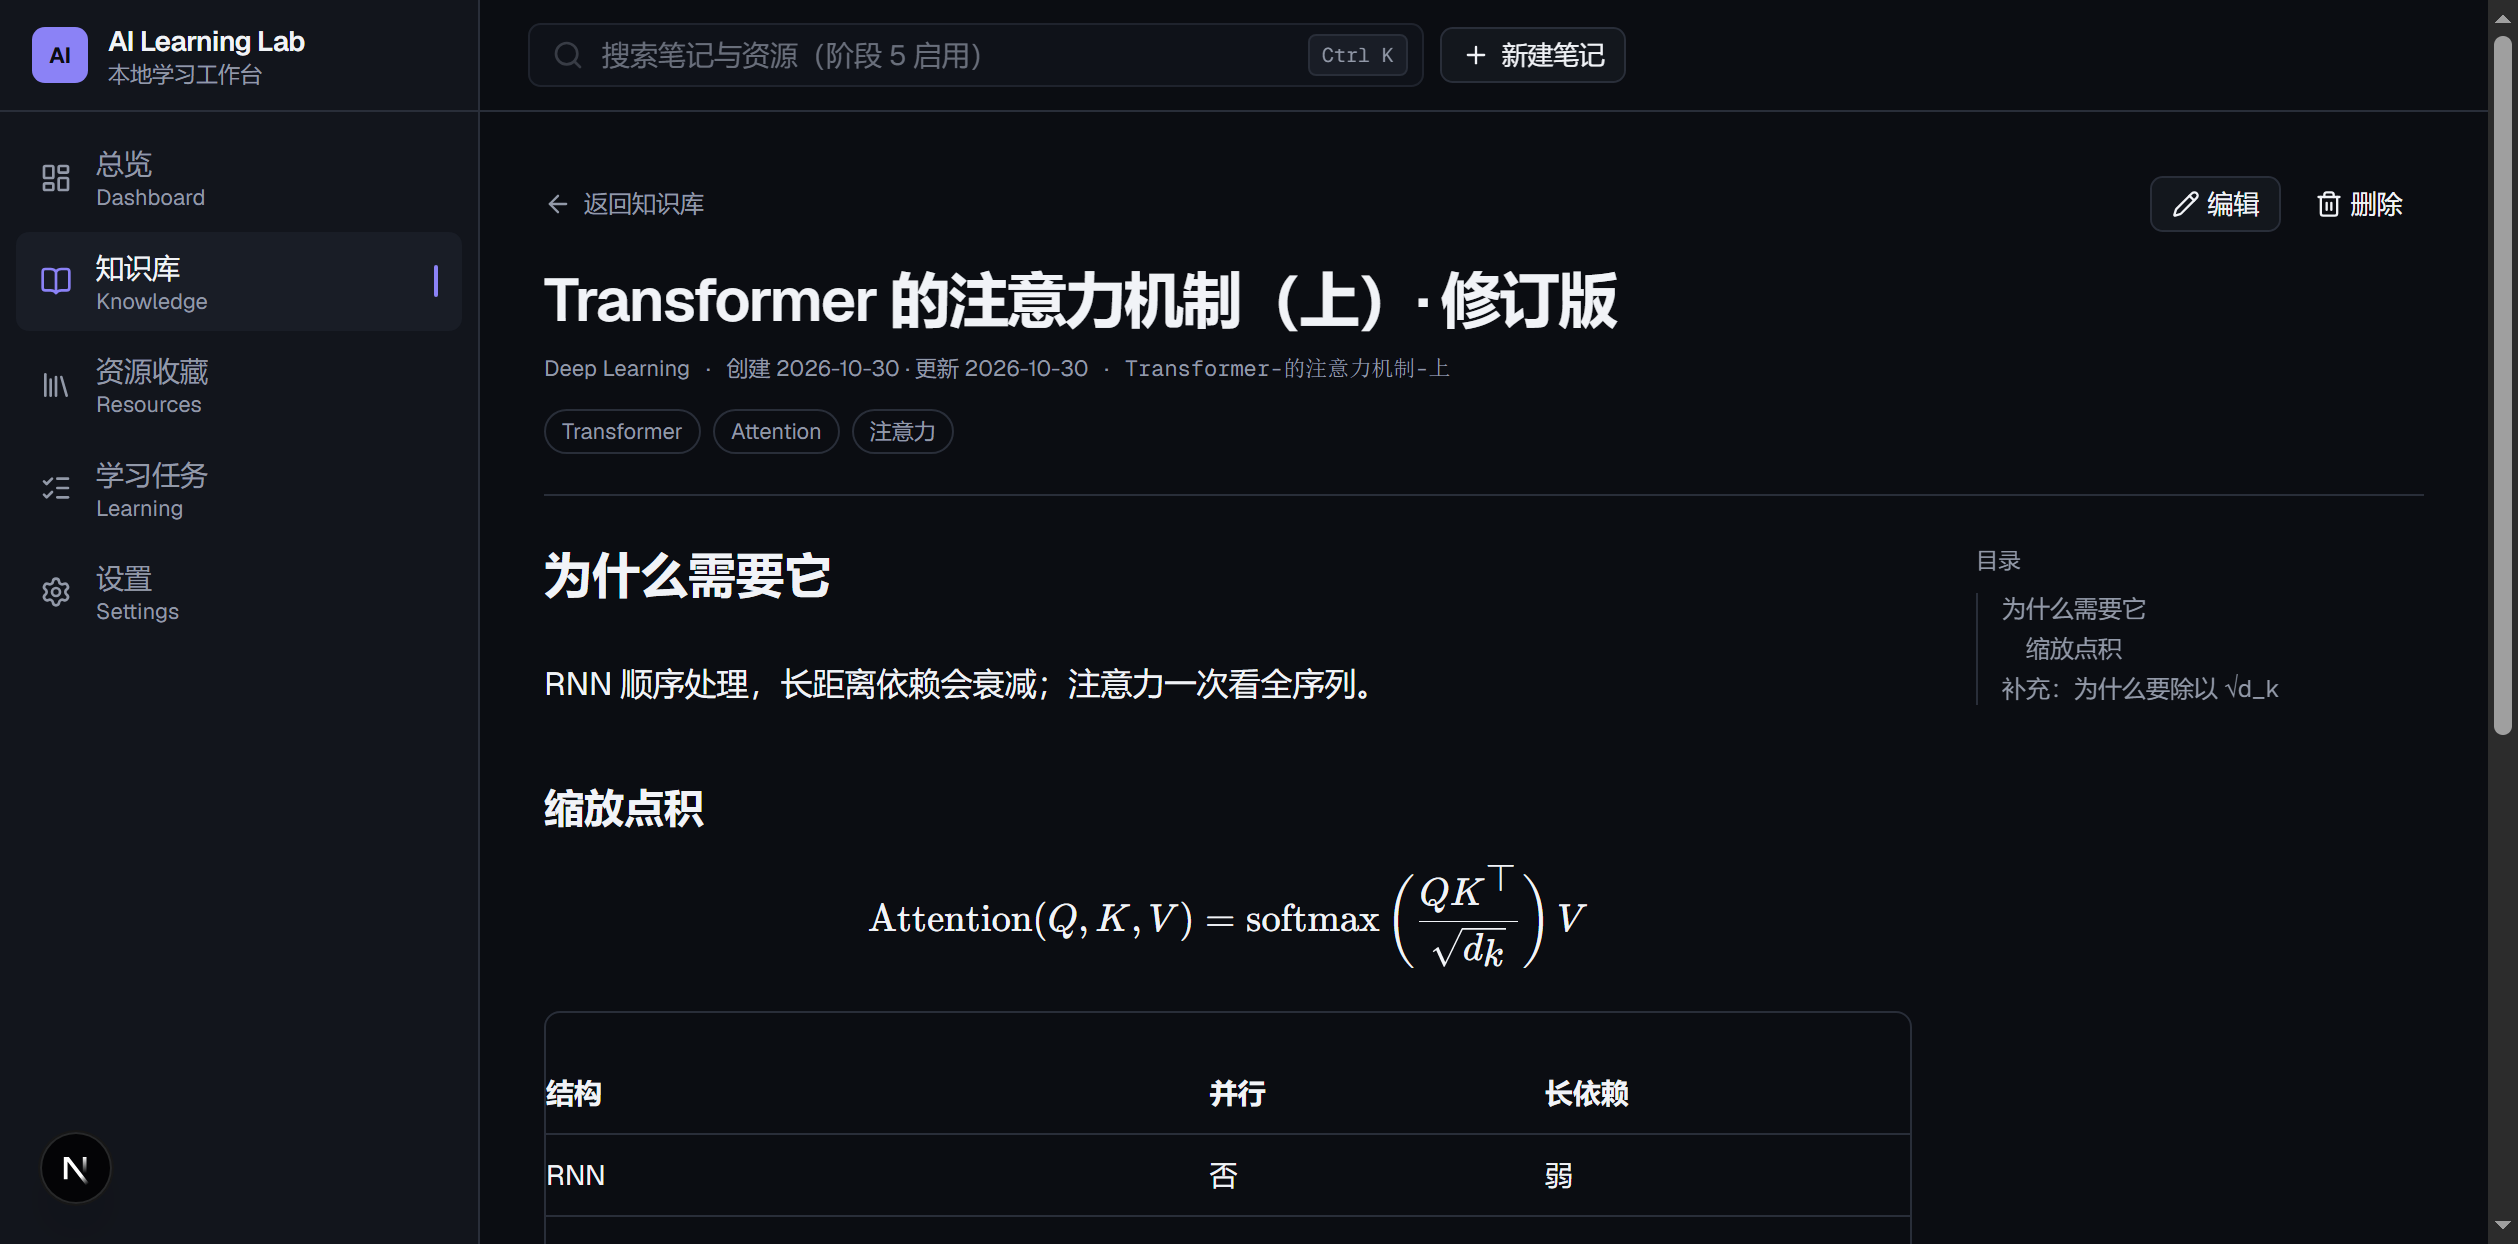
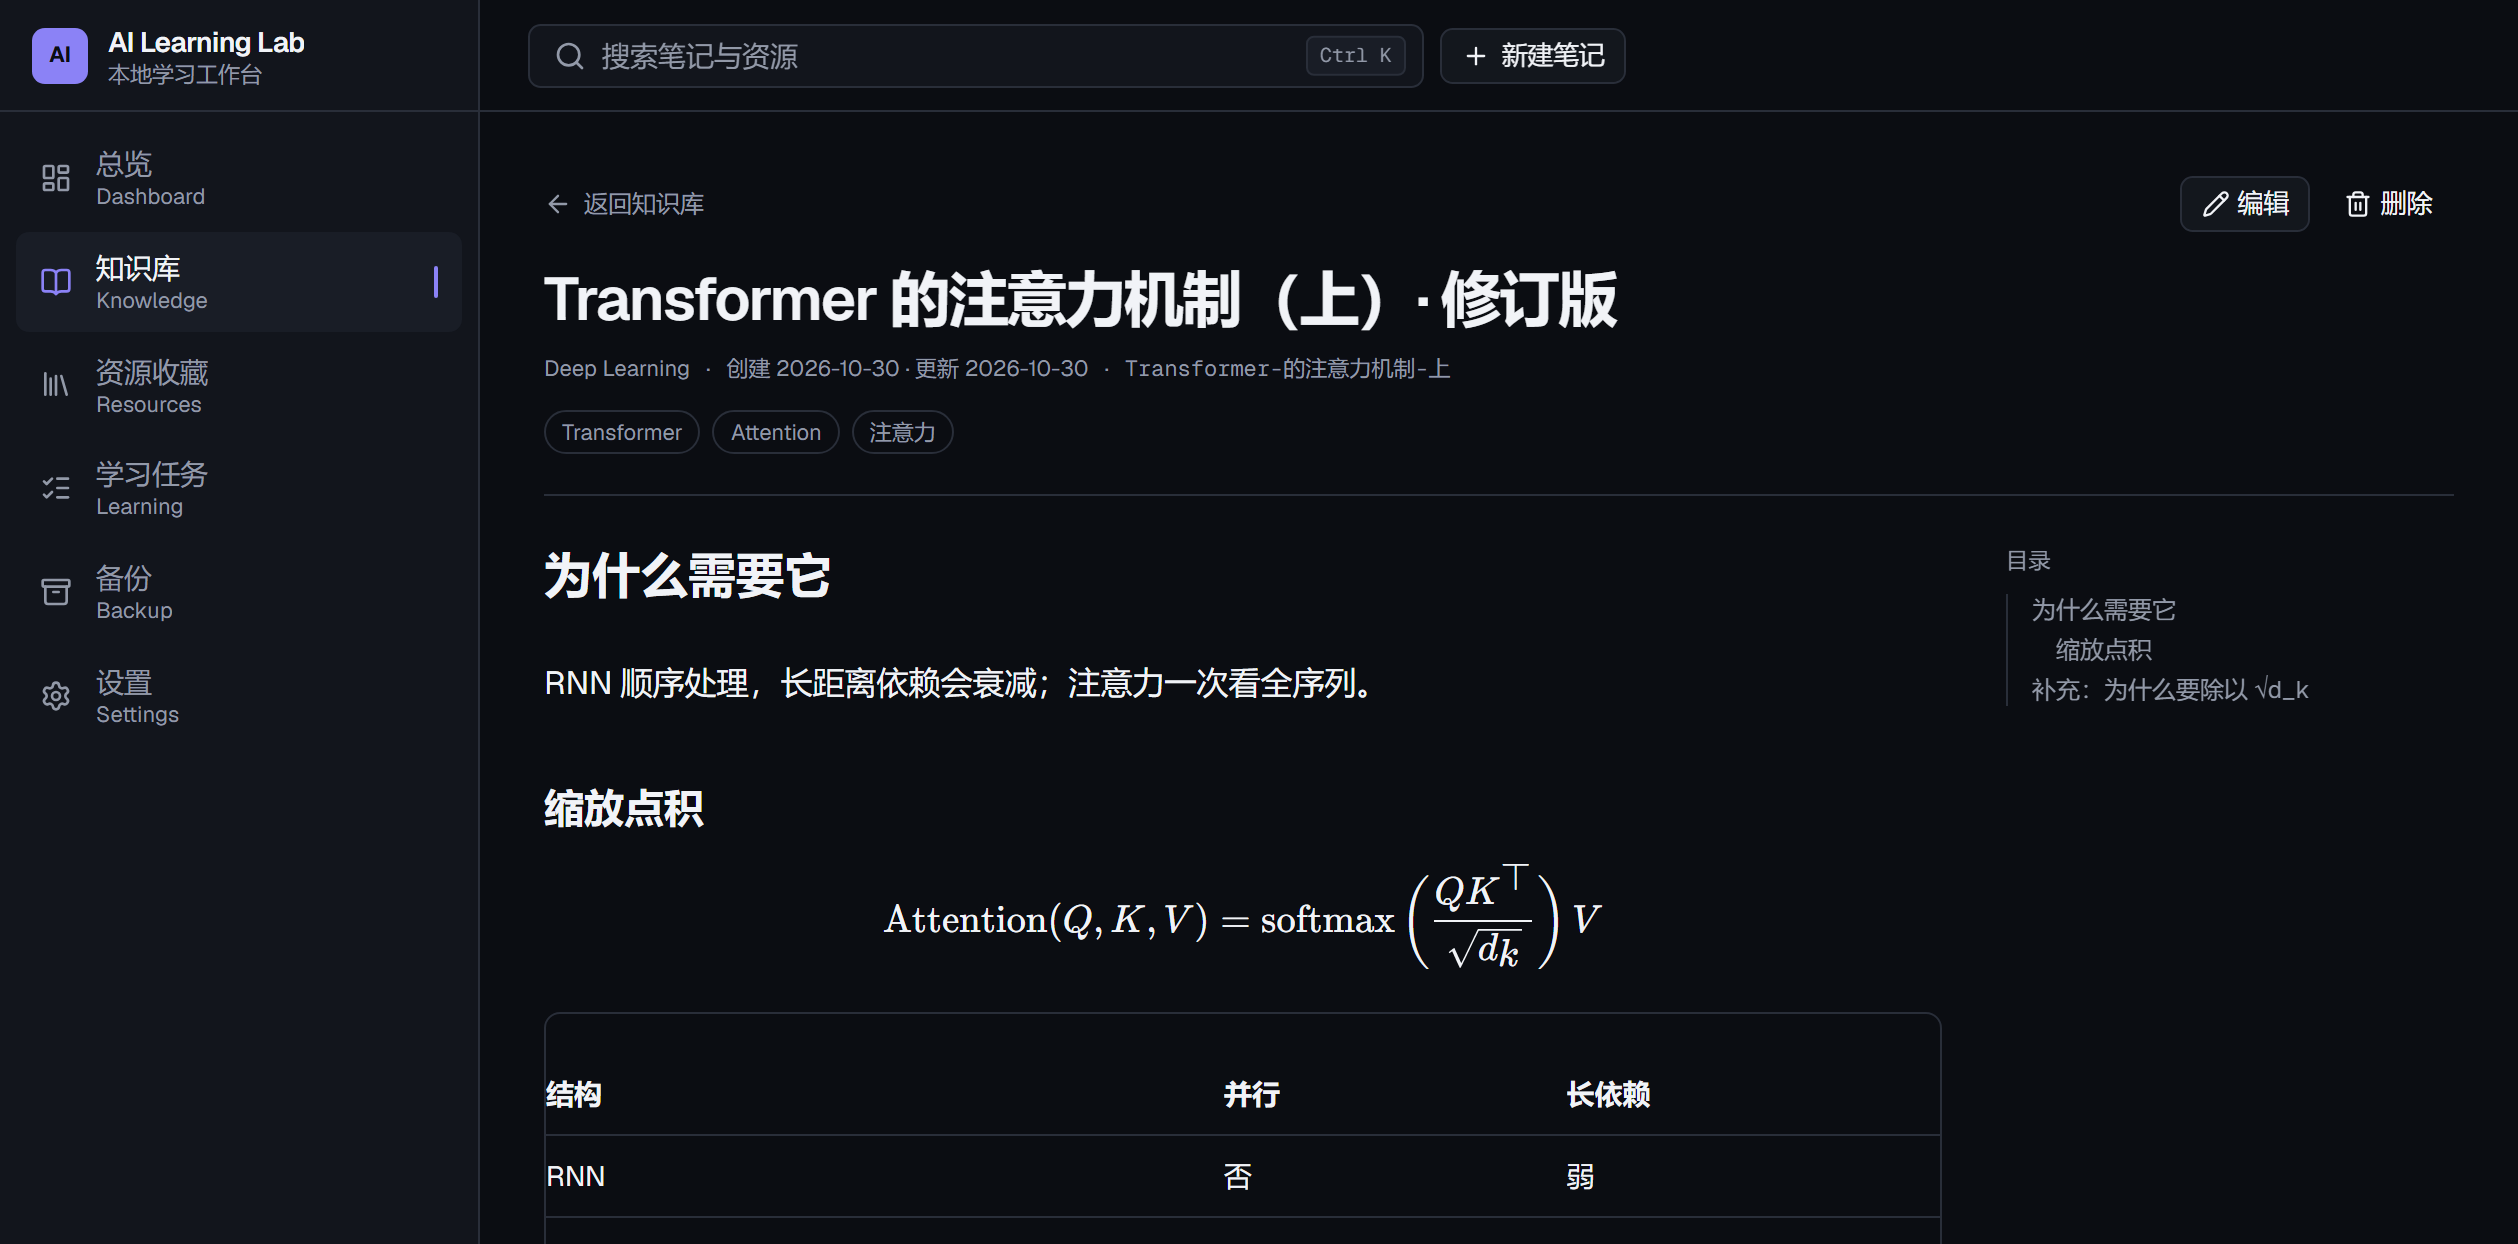
docs: README 门面改现状，重拍 5 张过期截图
给老师交仓库前的展示修整，不动功能：

- README 开头从「审计 NOT ACCEPTED」的长段落改成状态行 + 7 条能力清单，
  写明最终 ACCEPT 与交付门槛（569 断言 / E2E 15+9）
- 重拍 5 张停在阶段 3–6 的截图：总览、学习任务、知识库详情、新建笔记、资源收藏
  （旧图里侧栏没有「备份」、搜索框还写着「阶段 5 启用」、页脚还是阶段 6）
- 侧栏页脚文案缩短：「Ctrl+K 搜全库；数据都在本机」——原文在 622px 高的窗口里
  会把「上」挤到第三行并被裁掉

diff --git a/components/layout/app-shell.tsx b/components/layout/app-shell.tsx
@@ -27,7 +27,7 @@ export function AppShell({ children }: { children: ReactNode }) {
             <p className="text-[11px] leading-relaxed text-muted-foreground">
               阶段 8 · 测试与本地发布
               <br />
-              Ctrl+K 搜全库；数据与备份都在这台电脑上
+              Ctrl+K 搜全库；数据都在本机
             </p>
           </div>
         </aside>

diff --git a/README.md b/README.md
@@ -2,7 +2,15 @@
 
 一个本地优先的 AI 学习、知识管理与资源收藏工作台。
 
-**当前状态：阶段 1–8 开发完成（2026-10-30）；外部验收审计 v1/v2 与复核 v3b 的判定都是 NOT ACCEPTED，给出的具体缺陷已按复现修完（Unicode/重复 BOM 绕过、延迟恢复、日志查询失败）。** 笔记能新建/编辑/删除（中文标题直接当文件名）；资源收藏能增删改、按类型/分类/标签筛选、三种排序，并能挂到某篇笔记上。链接只接受 http/https，应用**从不抓取**你填的地址。`Ctrl+K` 能搜全部笔记与资源：分组、摘要、高亮、`↑↓`/`Enter`/`Esc` 键盘操作，**不建索引**（每次搜都读文件，所以永远不会有"索引过期"）。学习任务有 Todo / 进行中 / 已完成三档、截止日期（会算逾期）、可关联多篇笔记与多条资源；总览页的数字全部从文件现算。阶段 7 把 `content/` 打成带清单的 zip（每个文件 sha256），恢复前先预览、先留快照、失败自动回滚；之后又补了**恢复日志**：恢复写到一半被强杀，**下次启动**会自动回到恢复前，收尾前写入会被暂停（DATA-01 / D18）。局域网默认关闭，打开后用口令登录，所有页面与写入都要过同一道门。阶段 8 补上了 Playwright 端到端测试（系统 Chrome；Windows 桌面 + Pixel 7 模拟）、axe 可访问性扫描（WCAG 2 A/AA，九个界面 0 命中）、性能基线、备份恢复的完整 E2E，以及 `app/error.tsx` 错误边界。阶段 8 之后只做了 P1 清理（手动：备份保留最近 10 份、`.trash` 清 90 天前条目，D22），没有阶段 9。**交付门槛是 `npm run verify`（569 条断言）加 `npm run test:e2e`。**
+**状态：阶段 1–8 全部完成（2026-10-30），外部验收审计最终 ACCEPT。** 交付门槛是 `npm run verify`（**569 条断言：568 通过 + 1 跳过**）加 `npm run test:e2e`（**15 实跑 + 9 按设计跳过**）。审计过程（v1/v2 NOT ACCEPTED → 逐条复现修复 → 四轮复核 → v3e ACCEPT）见文末「审计与复核记录」。
+
+- **笔记**：`content/articles/*.md` 就是数据库，没有索引也没有隐藏状态；中文标题直接当文件名；编辑器支持 GFM、公式与代码高亮，正文里的 HTML **不执行**
+- **搜索**：`Ctrl+K` 搜全部笔记与资源，分组 + 摘要 + 高亮 + 键盘操作，**不建索引**（每次搜都读文件，所以永远不会有「索引过期」）
+- **资源收藏**：类型 / 分类 / 标签筛选与三种排序，可挂到某篇笔记上；链接只收 http/https，应用**从不抓取**你填的地址
+- **任务与总览**：Todo / 进行中 / 已完成三档、截止日期与逾期提示；总览上的数字全部从文件现算，没有缓存也没有假数据
+- **备份与恢复**：带每个文件 sha256 清单的 zip；恢复前先预览、先留快照，原子写入后重扫校验，失败自动回滚。恢复写到一半被强杀，**下次启动**会自动回到恢复前（DATA-01 / D18）
+- **局域网（默认关闭）**：只走 `npm run start:lan`（生产构建 + 口令 + 密钥，缺一个就拒绝启动），读和写都过同一道门；默认只听 `127.0.0.1`
+- **质量**：Playwright 端到端（Windows 桌面 + Pixel 7 模拟，系统 Chrome）、axe 扫九个界面 **0 命中**（WCAG 2 A/AA）、真实页面性能基线 61–258 ms、搜索 2.6–4.8 ms
 
 ![总览](docs/screenshot-dashboard.png)
 
